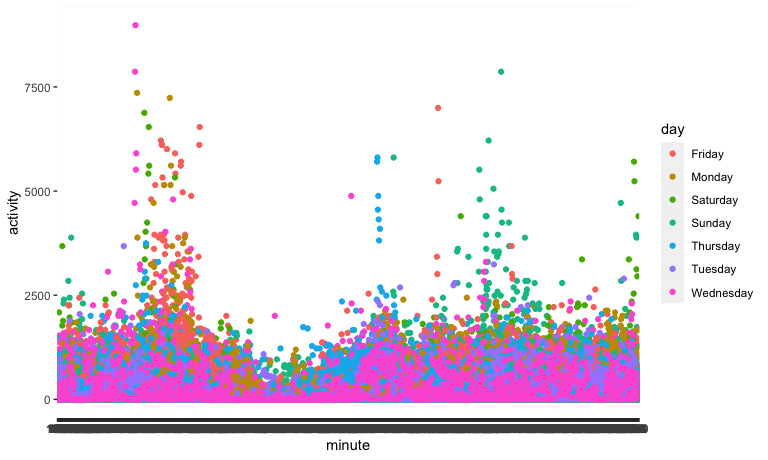
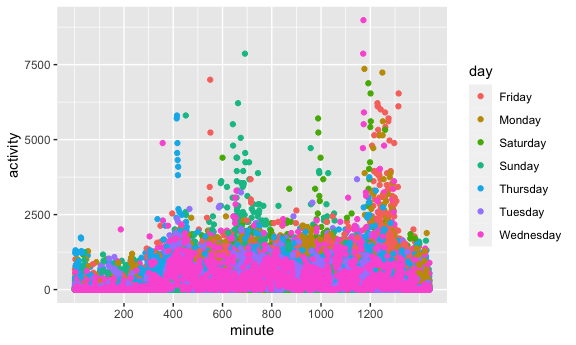
Finished problems 2 and 3

diff --git a/hw3.md b/hw3.md
@@ -23,10 +23,11 @@ library(tidyverse)
 
 ``` r
 library(p8105.datasets)
+library(patchwork)
 data("instacart")
 
 knitr::opts_chunk$set(
-  fig.width = 8,
+  fig.width = 6,
   fig.asp = 0.6,
   out.width = "90%")
 ```
@@ -291,10 +292,192 @@ in words any patterns or conclusions you can make based on this graph.*
 
 ``` r
 accel_df %>% 
+  mutate(
+    minute = as.numeric(minute)
+    )%>% 
   ggplot(aes(x = minute, y = activity, color = day)) +
-  geom_point() 
+  geom_point() +
+   scale_x_continuous(
+    breaks = c(200, 400, 600, 800, 1000, 1200),
+    labels = c("200", "400", "600", "800", "1000", "1200")
+   )
 ```
 
 <img src="hw3_files/figure-gfm/unnamed-chunk-10-1.png" width="90%" />
 
+There are discrete times of day in which activity is consistently
+increased.
+
 ## Problem 3
+
+Load the NY NOAA data:
+
+``` r
+library(p8105.datasets)
+data("ny_noaa")
+ny_noaa
+```
+
+    ## # A tibble: 2,595,176 x 7
+    ##    id          date        prcp  snow  snwd tmax  tmin 
+    ##    <chr>       <date>     <int> <int> <int> <chr> <chr>
+    ##  1 US1NYAB0001 2007-11-01    NA    NA    NA <NA>  <NA> 
+    ##  2 US1NYAB0001 2007-11-02    NA    NA    NA <NA>  <NA> 
+    ##  3 US1NYAB0001 2007-11-03    NA    NA    NA <NA>  <NA> 
+    ##  4 US1NYAB0001 2007-11-04    NA    NA    NA <NA>  <NA> 
+    ##  5 US1NYAB0001 2007-11-05    NA    NA    NA <NA>  <NA> 
+    ##  6 US1NYAB0001 2007-11-06    NA    NA    NA <NA>  <NA> 
+    ##  7 US1NYAB0001 2007-11-07    NA    NA    NA <NA>  <NA> 
+    ##  8 US1NYAB0001 2007-11-08    NA    NA    NA <NA>  <NA> 
+    ##  9 US1NYAB0001 2007-11-09    NA    NA    NA <NA>  <NA> 
+    ## 10 US1NYAB0001 2007-11-10    NA    NA    NA <NA>  <NA> 
+    ## # … with 2,595,166 more rows
+
+This is a tibble with 2.59 million rows, containing data on
+precipitation and temperature for various weather stations
+
+``` r
+ny_noaa %>% 
+  group_by(id) %>% 
+  summarize(n_obs = n())
+```
+
+    ## # A tibble: 747 x 2
+    ##    id          n_obs
+    ##    <chr>       <int>
+    ##  1 US1NYAB0001  1157
+    ##  2 US1NYAB0006   852
+    ##  3 US1NYAB0010   822
+    ##  4 US1NYAB0016   214
+    ##  5 US1NYAB0017   459
+    ##  6 US1NYAB0021   365
+    ##  7 US1NYAB0022   273
+    ##  8 US1NYAB0023   365
+    ##  9 US1NYAB0025   215
+    ## 10 US1NYAL0002   549
+    ## # … with 737 more rows
+
+``` r
+ny_noaa %>% 
+  summary()
+```
+
+    ##       id                 date                 prcp               snow       
+    ##  Length:2595176     Min.   :1981-01-01   Min.   :    0.00   Min.   :  -13   
+    ##  Class :character   1st Qu.:1988-11-29   1st Qu.:    0.00   1st Qu.:    0   
+    ##  Mode  :character   Median :1997-01-21   Median :    0.00   Median :    0   
+    ##                     Mean   :1997-01-01   Mean   :   29.82   Mean   :    5   
+    ##                     3rd Qu.:2005-09-01   3rd Qu.:   23.00   3rd Qu.:    0   
+    ##                     Max.   :2010-12-31   Max.   :22860.00   Max.   :10160   
+    ##                                          NA's   :145838     NA's   :381221  
+    ##       snwd            tmax               tmin          
+    ##  Min.   :   0.0   Length:2595176     Length:2595176    
+    ##  1st Qu.:   0.0   Class :character   Class :character  
+    ##  Median :   0.0   Mode  :character   Mode  :character  
+    ##  Mean   :  37.3                                        
+    ##  3rd Qu.:   0.0                                        
+    ##  Max.   :9195.0                                        
+    ##  NA's   :591786
+
+There appear to be \~1500 weather stations, with dates spanning from
+1981 through 2010.
+
+*Do some data cleaning. Create separate variables for year, month, and
+day. Ensure observations for temperature, precipitation, and snowfall
+are given in reasonable units. For snowfall, what are the most commonly
+observed values? Why?*
+
+``` r
+ny_noaa =
+ny_noaa %>% 
+  mutate(
+  year = lubridate::year(date),
+  month = lubridate::month(date),
+  day = lubridate::day(date),
+  tmin = as.numeric(tmin) /10,
+  tmax = as.numeric(tmax) /10
+  ) %>% 
+  relocate(id, year, month, day) %>% 
+  select(-date)
+```
+
+``` r
+ny_noaa %>% 
+    group_by(snow) %>% 
+  summarize(
+    n_obs = n()
+  ) %>% 
+  mutate(
+    order_rank = min_rank(-n_obs)
+    )%>% 
+      arrange(order_rank)
+```
+
+    ## # A tibble: 282 x 3
+    ##     snow   n_obs order_rank
+    ##    <int>   <int>      <int>
+    ##  1     0 2008508          1
+    ##  2    NA  381221          2
+    ##  3    25   31022          3
+    ##  4    13   23095          4
+    ##  5    51   18274          5
+    ##  6    76   10173          6
+    ##  7     8    9962          7
+    ##  8     5    9748          8
+    ##  9    38    9197          9
+    ## 10     3    8790         10
+    ## # … with 272 more rows
+
+For snowfall, the most commonly observed values are 0 and NA.
+
+*Make a two-panel plot showing the average max temperature in January
+and in July in each station across years. Is there any observable /
+interpretable structure? Any outliers?*
+
+``` r
+  ny_noaa %>% 
+  filter(month == 1 | month == 7) %>% 
+  group_by(id, month) %>% 
+  summarize(
+    average_tmax = median(tmax, na.rm = TRUE)
+  ) %>% 
+  filter(average_tmax != "NaN") %>% 
+ggplot(aes(x = average_tmax)) +
+        geom_histogram() +
+        facet_grid(. ~ month)
+```
+
+    ## `summarise()` has grouped output by 'id'. You can override using the `.groups` argument.
+
+    ## `stat_bin()` using `bins = 30`. Pick better value with `binwidth`.
+
+<img src="hw3_files/figure-gfm/unnamed-chunk-15-1.png" width="90%" />
+
+*Make a two-panel plot showing (i) tmax vs tmin for the full dataset
+(note that a scatterplot may not be the best option); and (ii) make a
+plot showing the distribution of snowfall values greater than 0 and less
+than 100 separately by year.*
+
+``` r
+ plot_1 = ny_noaa %>% 
+  ggplot(aes (x = tmin, y = tmax)) +
+           geom_hex()
+
+plot_2 = ny_noaa %>% 
+  filter(snow <100 & snow >0) %>% 
+  mutate(
+    year = as.factor(year)
+  ) %>% 
+  ggplot(aes(y = snow)) +
+  geom_boxplot() +
+    facet_grid(. ~ year) +
+    theme(axis.title.x=element_blank(),
+        axis.text.x=element_blank(),
+        axis.ticks.x=element_blank())
+
+plot_1 / plot_2
+```
+
+    ## Warning: Removed 1136276 rows containing non-finite values (stat_binhex).
+
+<img src="hw3_files/figure-gfm/unnamed-chunk-16-1.png" width="90%" />
